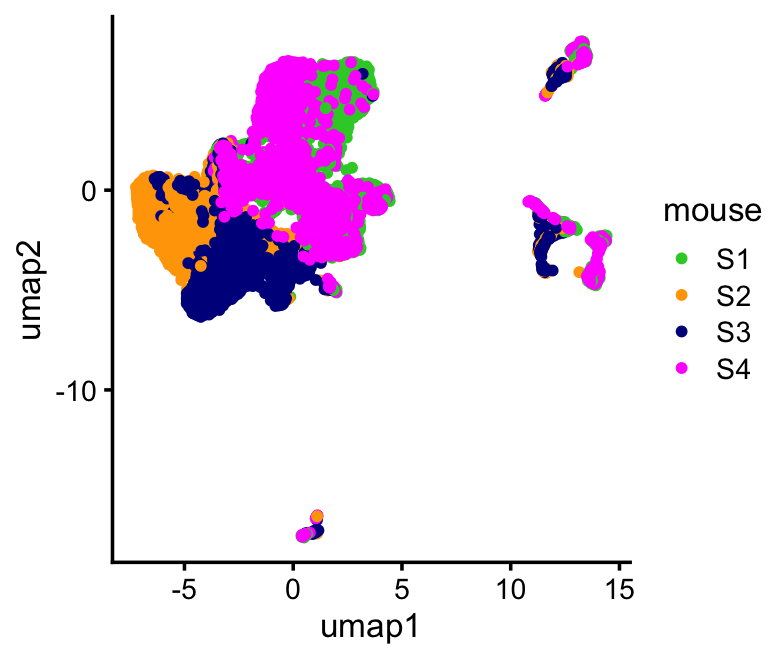
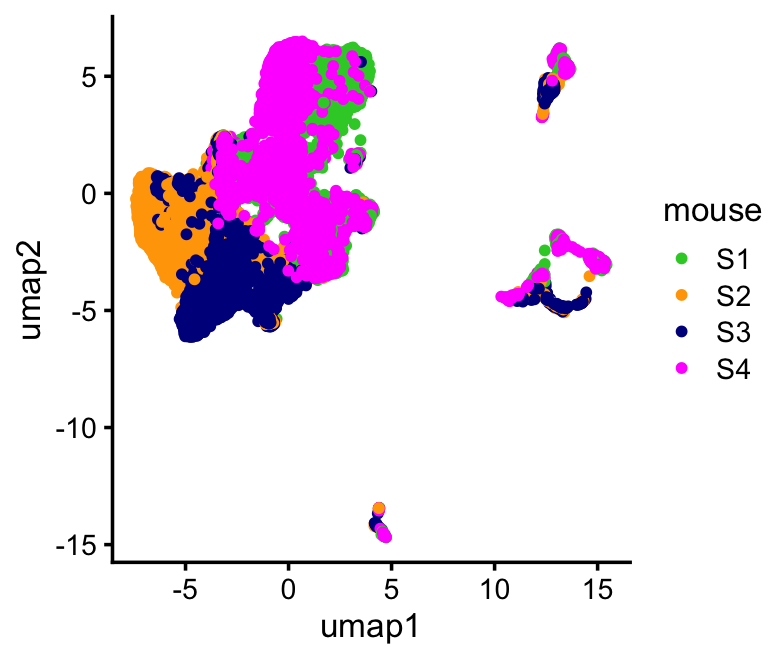
Removed Malat1 from the pancreas_cytokine data set.

diff --git a/docs/pancreas_cytokine.html b/docs/pancreas_cytokine.html
@@ -301,7 +301,7 @@ class="glyphicon glyphicon-ok text-success" aria-hidden="true"></span>
 <div class="tab-content">
 <div id="summary" class="tab-pane fade in active">
 <p>
-<strong>Last updated:</strong> 2025-06-10
+<strong>Last updated:</strong> 2025-06-11
 </p>
 <p>
 <strong>Checks:</strong> <span
@@ -433,15 +433,15 @@ project makes it easier to run your code on other machines.</p>
 <div class="panel panel-default">
 <div class="panel-heading">
 <p class="panel-title">
-<a data-toggle="collapse" data-parent="#workflowr-checks" href="#strongRepositoryversionstrongahrefhttpsgithubcomstephenslabsinglecelljamboreetree5249817791516a7b04d8a431b008b7bd6df82610targetblank5249817a">
+<a data-toggle="collapse" data-parent="#workflowr-checks" href="#strongRepositoryversionstrongahrefhttpsgithubcomstephenslabsinglecelljamboreetreeffad5cdff21ce9cf92bdce3b7e2f58a178e56b6dtargetblankffad5cda">
 <span class="glyphicon glyphicon-ok text-success"
 aria-hidden="true"></span> <strong>Repository version:</strong>
-<a href="https://github.com/stephenslab/single-cell-jamboree/tree/5249817791516a7b04d8a431b008b7bd6df82610" target="_blank">5249817</a>
+<a href="https://github.com/stephenslab/single-cell-jamboree/tree/ffad5cdff21ce9cf92bdce3b7e2f58a178e56b6d" target="_blank">ffad5cd</a>
 </a>
 </p>
 </div>
 <div
[2 lines of base64/hex data omitted]
 class="panel-collapse collapse">
 <div class="panel-body">
 <p>
@@ -451,7 +451,7 @@ reproducibility.
 </p>
 <p>
 The results in this page were generated with repository version
-<a href="https://github.com/stephenslab/single-cell-jamboree/tree/5249817791516a7b04d8a431b008b7bd6df82610" target="_blank">5249817</a>.
+<a href="https://github.com/stephenslab/single-cell-jamboree/tree/ffad5cdff21ce9cf92bdce3b7e2f58a178e56b6d" target="_blank">ffad5cd</a>.
 See the <em>Past versions</em> tab to see a history of the changes made
 to the R Markdown and HTML files.
 </p>
@@ -470,7 +470,6 @@ Untracked files:
     Untracked:  analysis/mcf7_cache/
     Untracked:  analysis/pancreas_cytokine_S1_factors_cache/
     Untracked:  analysis/temp2.R
-    Untracked:  analysis/temp3.R
     Untracked:  data/GSE132188_adata.h5ad.h5
     Untracked:  data/GSE183010/
     Untracked:  data/Immune_ALL_human.h5ad
@@ -525,6 +524,40 @@ Message
 </tr>
 </thead>
 <tbody>
+<tr>
+<td>
+Rmd
+</td>
+<td>
+<a href="https://github.com/stephenslab/single-cell-jamboree/blob/ffad5cdff21ce9cf92bdce3b7e2f58a178e56b6d/analysis/pancreas_cytokine.Rmd" target="_blank">ffad5cd</a>
+</td>
+<td>
+Peter Carbonetto
+</td>
+<td>
+2025-06-11
+</td>
+<td>
+wflow_publish("pancreas_cytokine.Rmd", verbose = TRUE, view = TRUE)
+</td>
+</tr>
+<tr>
+<td>
+html
+</td>
+<td>
+<a href="https://rawcdn.githack.com/stephenslab/single-cell-jamboree/e876f200425815e4f28291a50d1ad111886998ef/docs/pancreas_cytokine.html" target="_blank">e876f20</a>
+</td>
+<td>
+Peter Carbonetto
+</td>
+<td>
+2025-06-10
+</td>
+<td>
+Ran wflow_publish("pancreas_cytokine.Rmd").
+</td>
+</tr>
 <tr>
 <td>
 Rmd
@@ -1054,6 +1087,11 @@ href="https://nbisweden.github.io/workshop-scRNAseq/labs/seurat/seurat_01_qc.htm
              grepl(&quot;^Rp[sl]&quot;,genes$symbol)))
 genes  &lt;- genes[j,]
 counts &lt;- counts[,j]</code></pre>
+<p>Remove <em>Malat1</em>, which typically shows variation for technical
+reasons:</p>
+<pre class="r"><code>j      &lt;- which(genes$symbol != &quot;Malat1&quot;)
+genes  &lt;- genes[j,]
+counts &lt;- counts[,j]</code></pre>
 <p>Finally, a bunch of genes are not expressed in any cells. Let’s
 remove those as well:</p>
 <pre class="r"><code>x      &lt;- colSums(counts &gt; 0)
@@ -1067,9 +1105,9 @@ nrow(genes)
 dim(counts)
 mean(counts &gt; 0)
 # [1] 9354
-# [1] 21793
-# [1]  9354 21793
-# [1] 0.2031886</code></pre>
+# [1] 21792
+# [1]  9354 21792
+# [1] 0.2031521</code></pre>
 <p>Now let’s generate a 2-d nonlinear embedding of the cells using
 t-SNE. First, transform the counts into “shifted log counts”:</p>
 <pre class="r"><code>a &lt;- 1
@@ -1124,6 +1162,17 @@ Date
 </tr>
 </thead>
 <tbody>
+<tr>
+<td>
+<a href="https://github.com/stephenslab/single-cell-jamboree/blob/e876f200425815e4f28291a50d1ad111886998ef/docs/figure/pancreas_cytokine.Rmd/umap-plot-1-1.png" target="_blank">e876f20</a>
+</td>
+<td>
+Peter Carbonetto
+</td>
+<td>
+2025-06-10
+</td>
+</tr>
 <tr>
 <td>
 <a href="https://github.com/stephenslab/single-cell-jamboree/blob/5941ced2fc05b6379038fc30c28b6fdf94da761c/docs/figure/pancreas_cytokine.Rmd/umap-plot-1-1.png" target="_blank">5941ced</a>
@@ -1190,6 +1239,17 @@ Date
 </tr>
 </thead>
 <tbody>
+<tr>
+<td>
+<a href="https://github.com/stephenslab/single-cell-jamboree/blob/e876f200425815e4f28291a50d1ad111886998ef/docs/figure/pancreas_cytokine.Rmd/umap-plot-2-1.png" target="_blank">e876f20</a>
+</td>
+<td>
+Peter Carbonetto
+</td>
+<td>
+2025-06-10
+</td>
+</tr>
 <tr>
 <td>
 <a href="https://github.com/stephenslab/single-cell-jamboree/blob/5941ced2fc05b6379038fc30c28b6fdf94da761c/docs/figure/pancreas_cytokine.Rmd/umap-plot-2-1.png" target="_blank">5941ced</a>
@@ -1267,6 +1327,17 @@ Date
 </tr>
 </thead>
 <tbody>
+<tr>
+<td>
+<a href="https://github.com/stephenslab/single-cell-jamboree/blob/e876f200425815e4f28291a50d1ad111886998ef/docs/figure/pancreas_cytokine.Rmd/umap-plot-3-1.png" target="_blank">e876f20</a>
+</td>
+<td>
+Peter Carbonetto
+</td>
+<td>
+2025-06-10
+</td>
+</tr>
 <tr>
 <td>
 <a href="https://github.com/stephenslab/single-cell-jamboree/blob/af8e02d63c8bba11a42eaf2b2417b83cfaeef700/docs/figure/pancreas_cytokine.Rmd/umap-plot-3-1.png" target="_blank">af8e02d</a>
